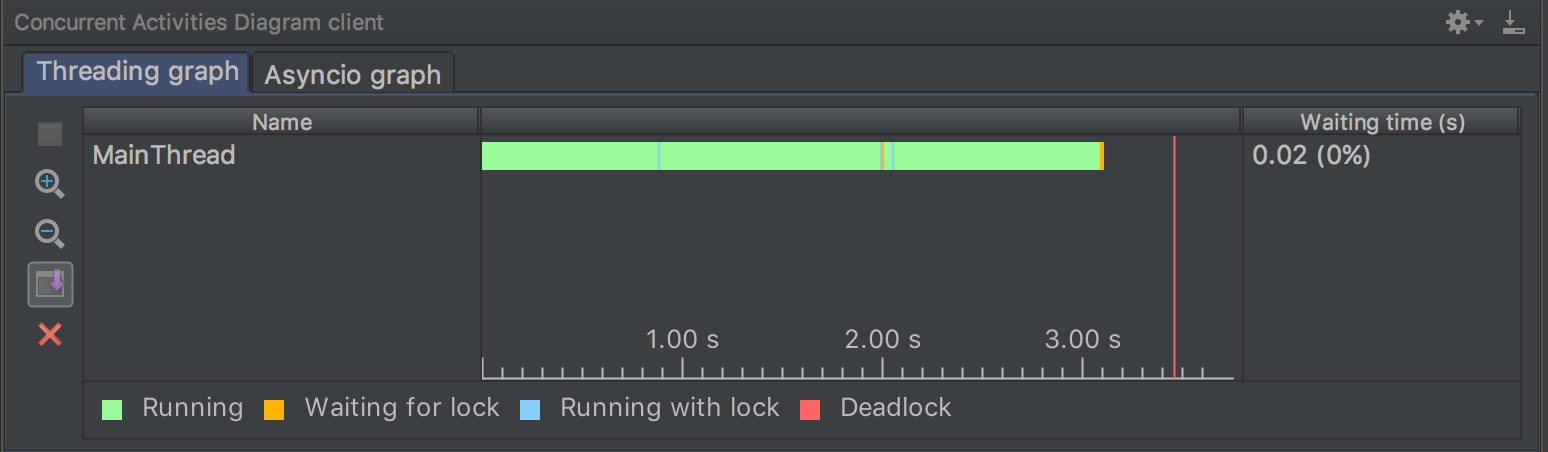
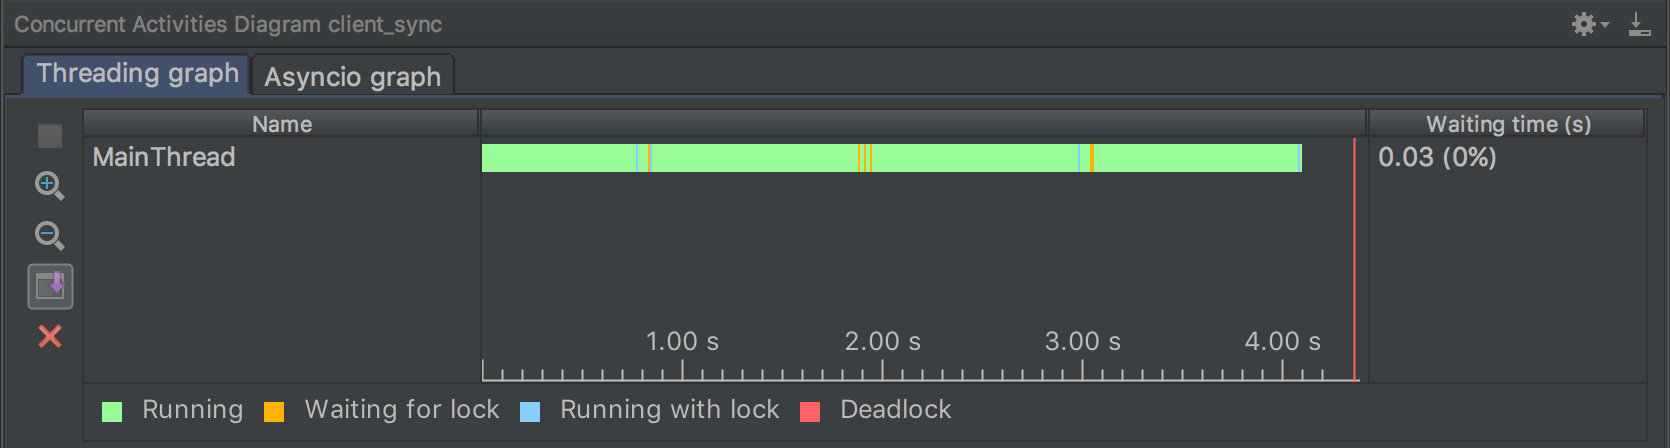
Update sync and async client

diff --git a/client_async.py b/client_async.py
@@ -14,6 +14,6 @@ async def main(l, url, num):
 
 if __name__ == '__main__':
     loop = asyncio.get_event_loop()
-    results = loop.run_until_complete(main(loop, 'http://localhost:8000', 2))
+    results = loop.run_until_complete(main(loop, 'http://localhost:8000', 3))
     for r in results:
         print(r)

diff --git a/client_sync.py b/client_sync.py
@@ -10,6 +10,6 @@ def main(url, num):
     return [fetch(url) for _ in range(num)]
 
 if __name__ == '__main__':
-    results = main('http://localhost:8000/', 2)
+    results = main('http://localhost:8000/', 3)
     for r in results:
         print(r)

diff --git a/Demo.md b/Demo.md
@@ -17,7 +17,6 @@
 あまり負荷をかけるのも迷惑なのでサーバを用意しますね。
 
 ```python
-# server.py
 import time
 
 def app(environ, start_response):
@@ -56,16 +55,18 @@ if __name__ == '__main__':
 実行してみます。
 
 ```console
-$ time python client.py 
+$ time python client_sync.py 
+This is a slow web api
 This is a slow web api
 This is a slow web api
 
-real    0m2.195s
-user    0m0.157s
-sys     0m0.026s
+real    0m3.219s
+user    0m0.162s
+sys     0m0.031s
 ```
 
-2.19sかかりました。
+**3.219s** かかりました。
+
 今回用意したサーバは、レスポンスを返すのに1秒は必要です。
 2回リクエストを送ったので2秒程度はかかるでしょう。
 次は別の方法でリクエストを送ってみます。
@@ -101,16 +102,17 @@ if __name__ == '__main__':
 とりあえず実行してみましょう。
 
 ```console
-$ time python async_client.py 
+$ time python client_async.py 
+This is a slow web api
 This is a slow web api
 This is a slow web api
 
-real    0m1.357s
-user    0m0.300s
-sys     0m0.046s
+real    0m1.415s
+user    0m0.333s
+sys     0m0.051s
 ```
 
-必要な時間は、1.357sでした。
+必要な時間は、1.415sでした。
 何故このようになったのでしょうか？
 
 
